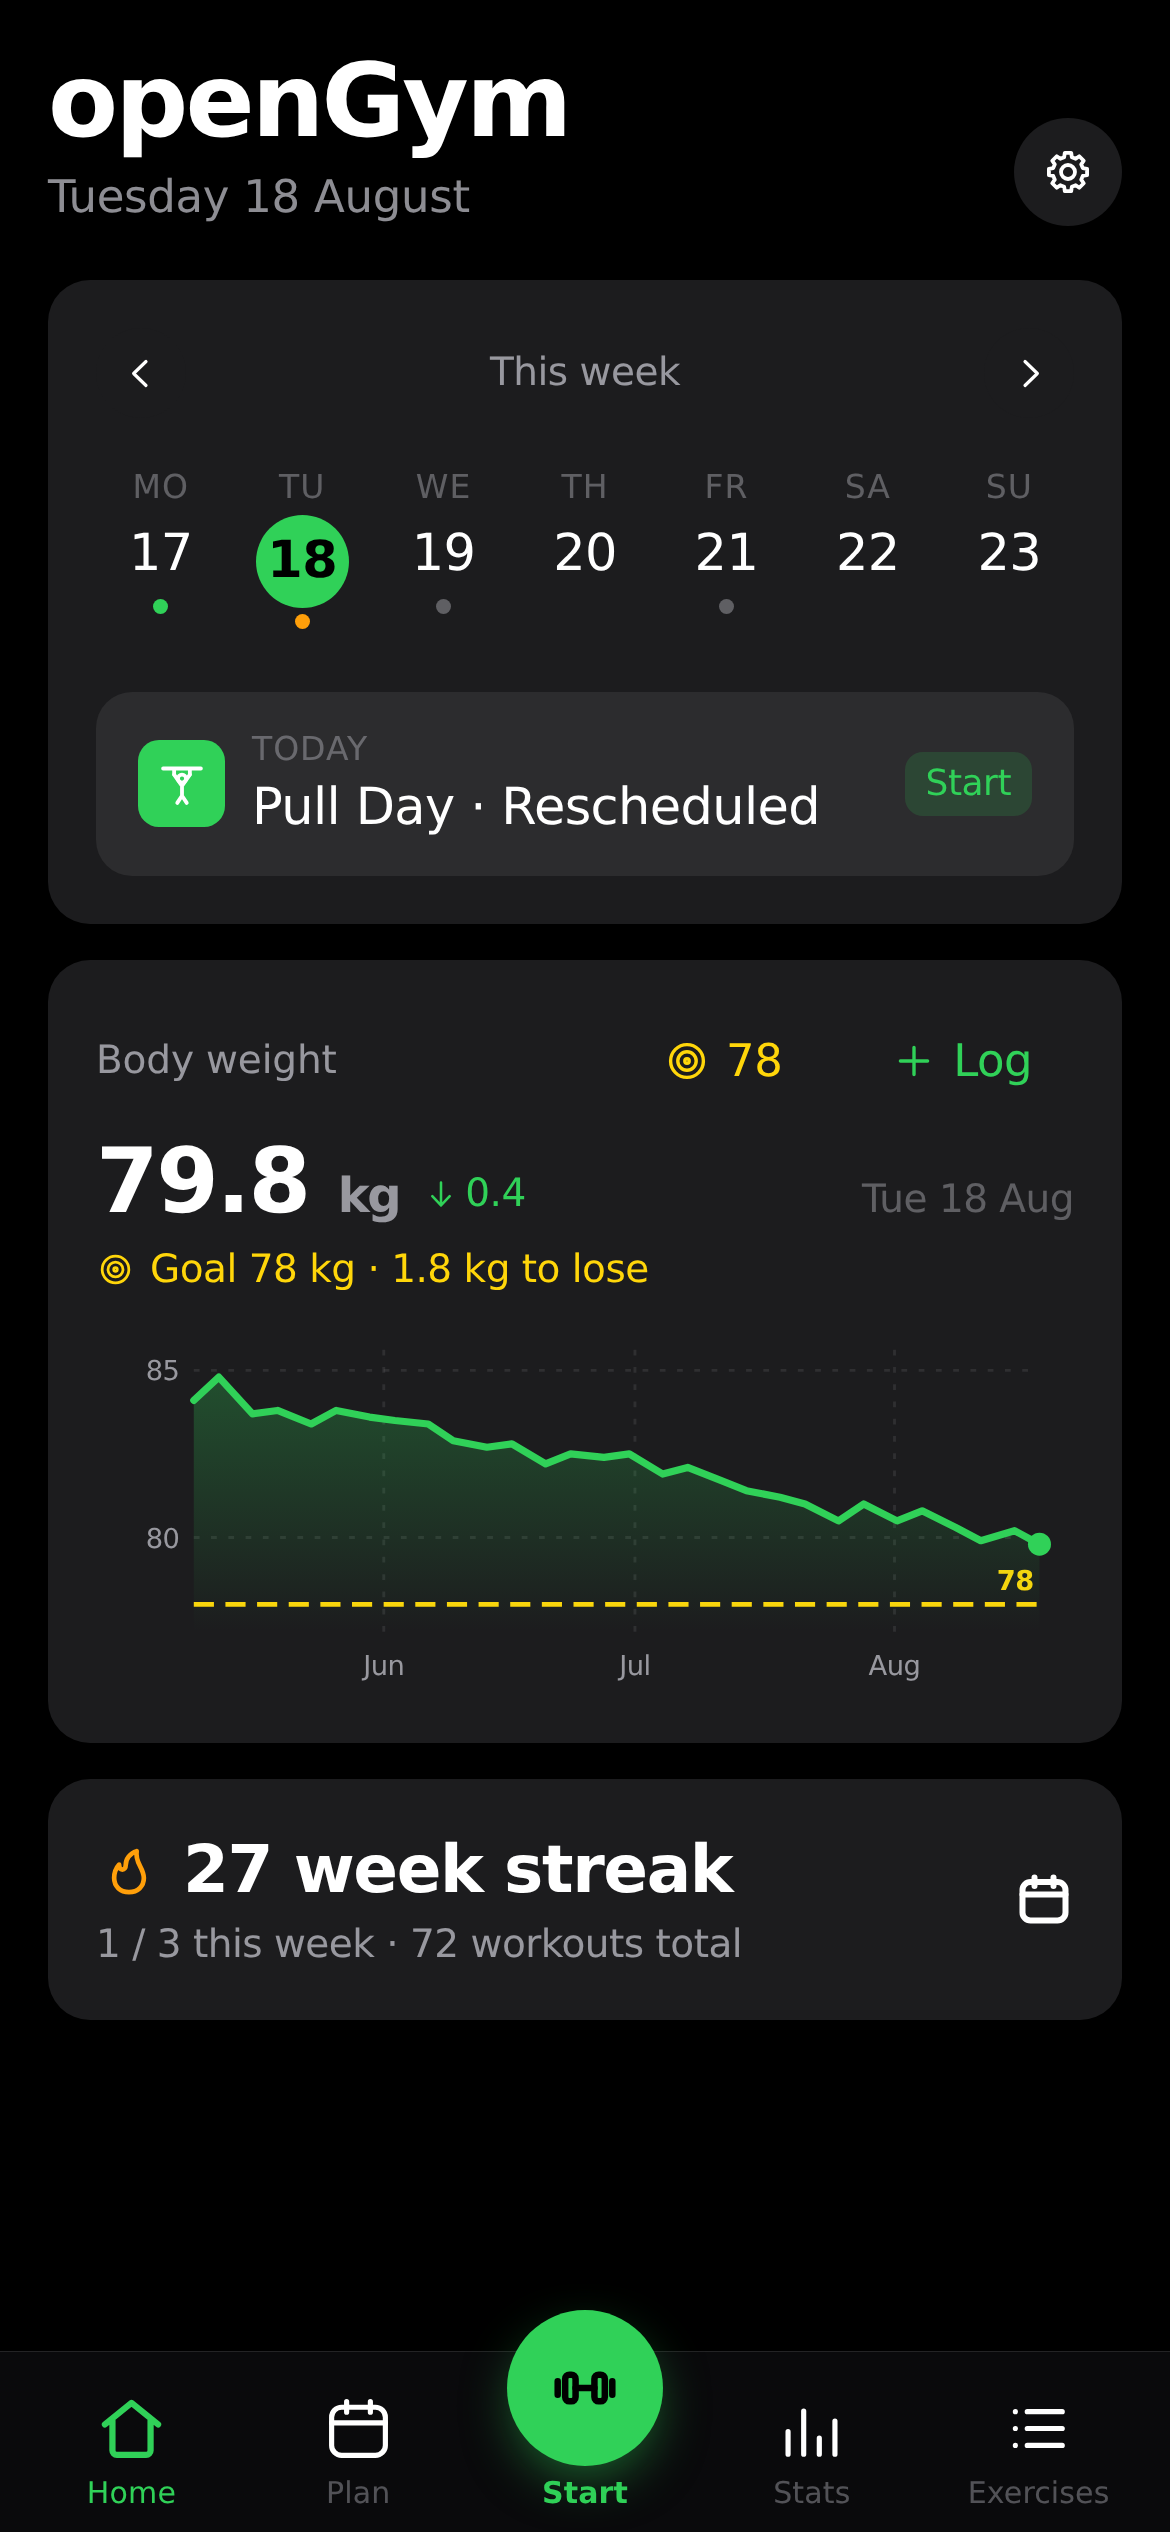
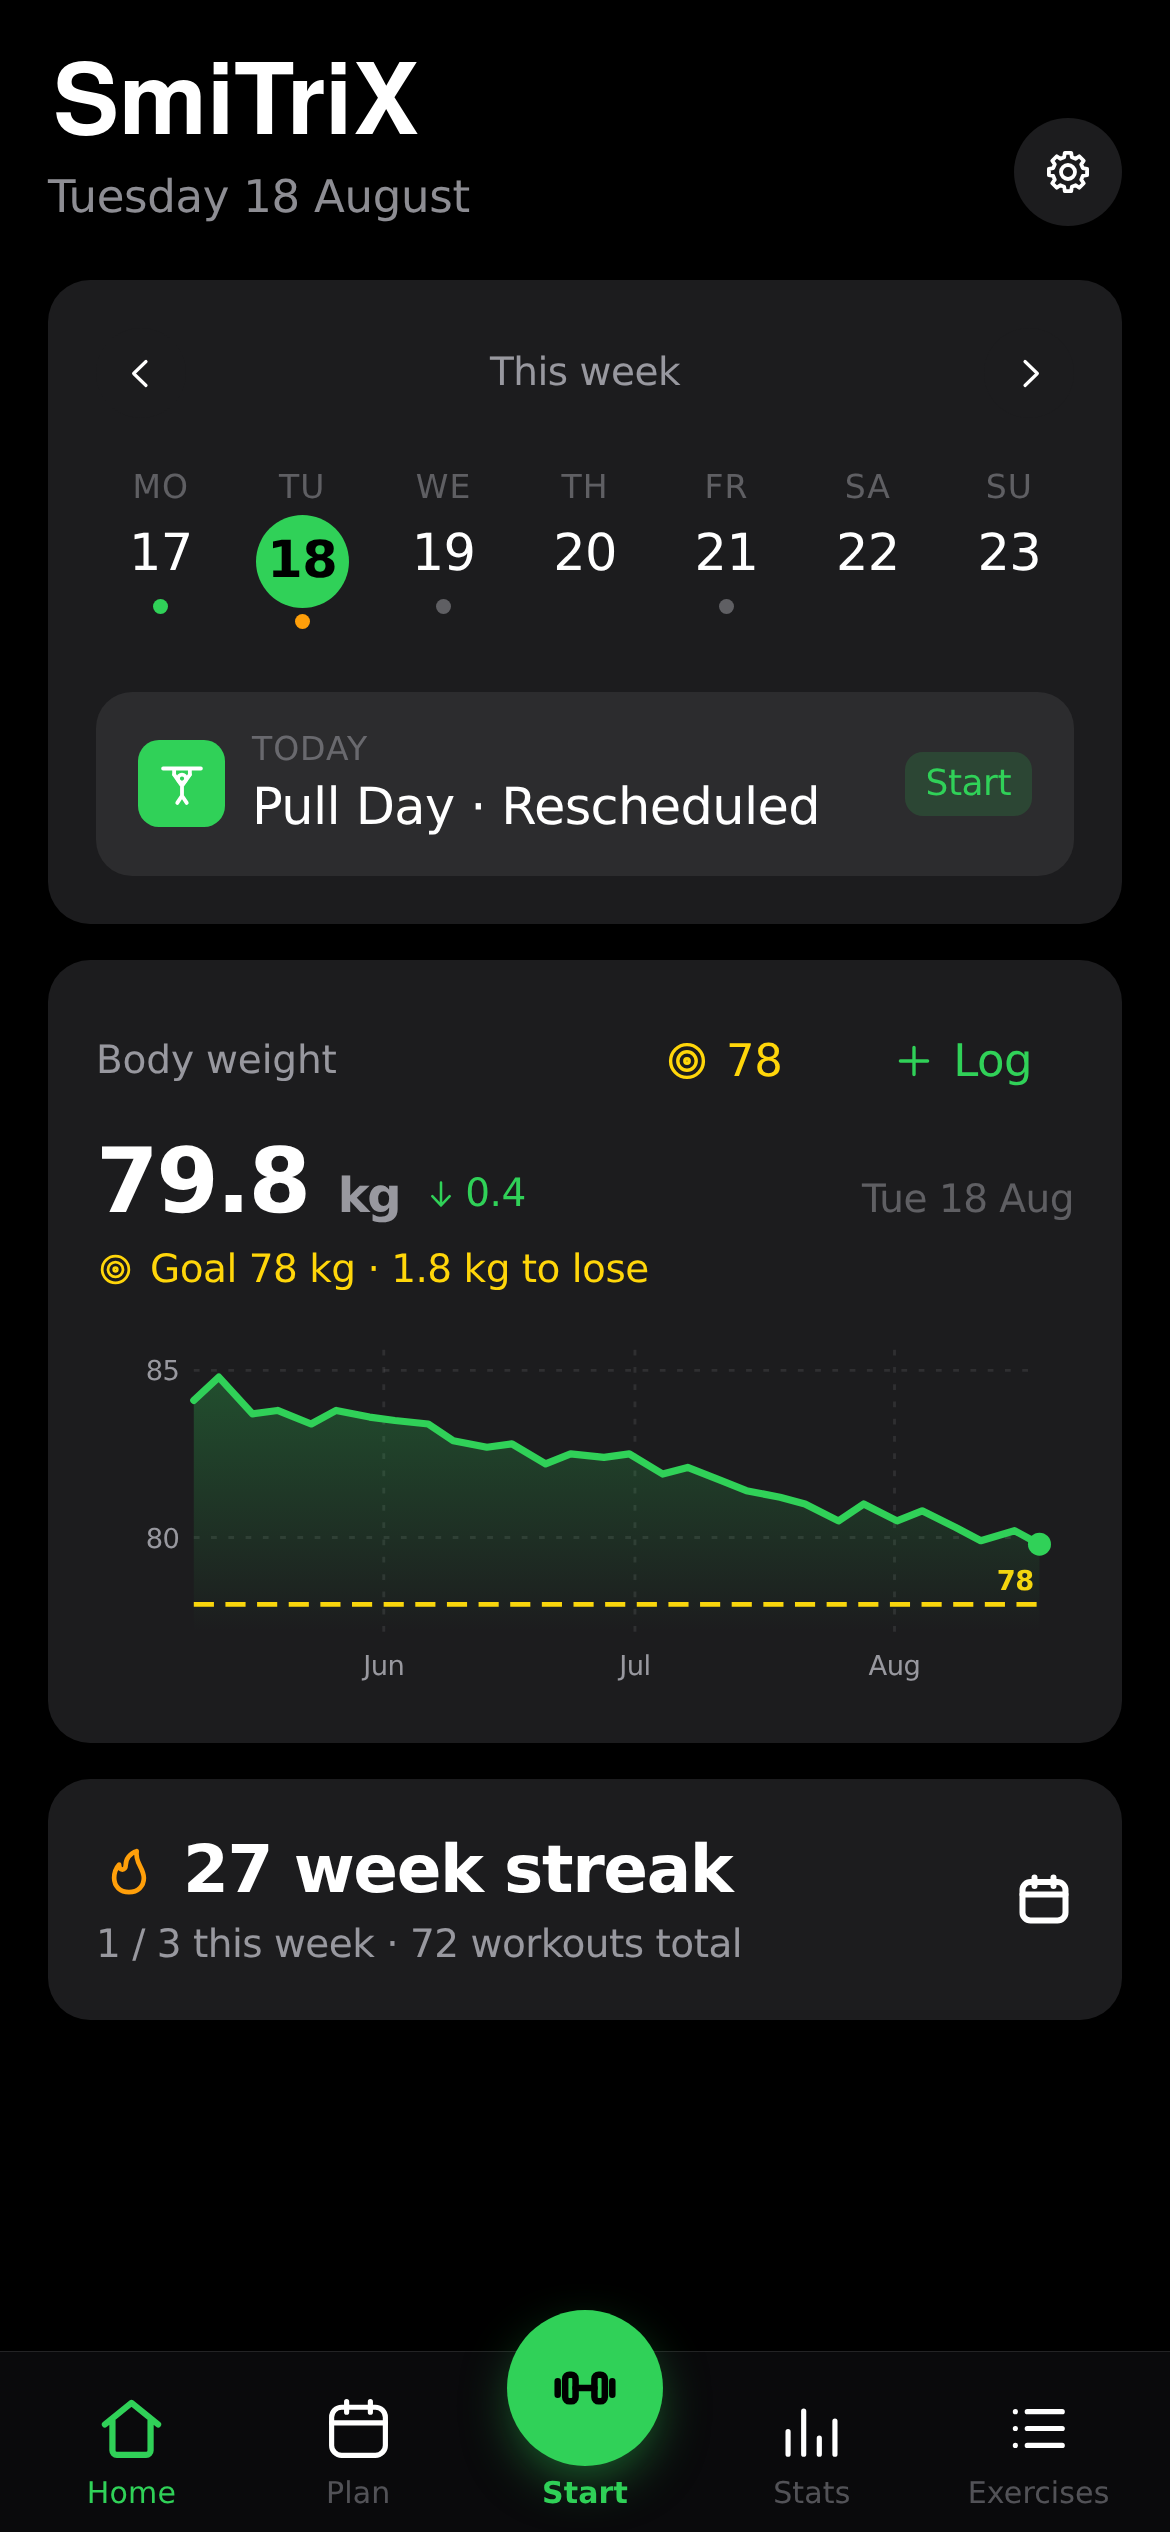
fix(website): update homepage screenshot to SmiTriX branding and bump asset cache

Changed region(s): [[0.0308, 0.0, 0.4923, 0.0624]]

diff --git a/website/index.html b/website/index.html
@@ -158,7 +158,7 @@ try {
   </div>
   <div class="hero-stage">
     <div class="device">
-      <img src="img/home.png" alt="SmiTriX home screen: the week at a glance, today's session and a body-weight chart"
+      <img src="img/home.png?v=2" alt="SmiTriX home screen: the week at a glance, today's session and a body-weight chart"
            width="1170" height="2532" fetchpriority="high">
     </div>
   </div>
@@ -348,7 +348,7 @@ try {
   </div>
   <div class="bleed rv">
     <div class="rail">
-      <figure><div class="device"><img src="img/home.png" alt="Home screen with the weekly overview and body-weight chart" loading="lazy" width="1170" height="2532"></div><figcaption>Home</figcaption></figure>
+      <figure><div class="device"><img src="img/home.png?v=2" alt="Home screen with the weekly overview and body-weight chart" loading="lazy" width="1170" height="2532"></div><figcaption>Home</figcaption></figure>
       <figure><div class="device"><img src="img/workout.png" alt="Guided workout screen with sets, rest timer and pre-filled weights" loading="lazy" width="1170" height="2532"></div><figcaption>Workout</figcaption></figure>
       <figure><div class="device"><img src="img/stats.png" alt="Stats screen with the activity heatmap and charts" loading="lazy" width="1170" height="2532"></div><figcaption>Stats</figcaption></figure>
       <figure><div class="device"><img src="img/plan.png" alt="Weekly plan screen with a routine per weekday" loading="lazy" width="1170" height="2532"></div><figcaption>Plan</figcaption></figure>
